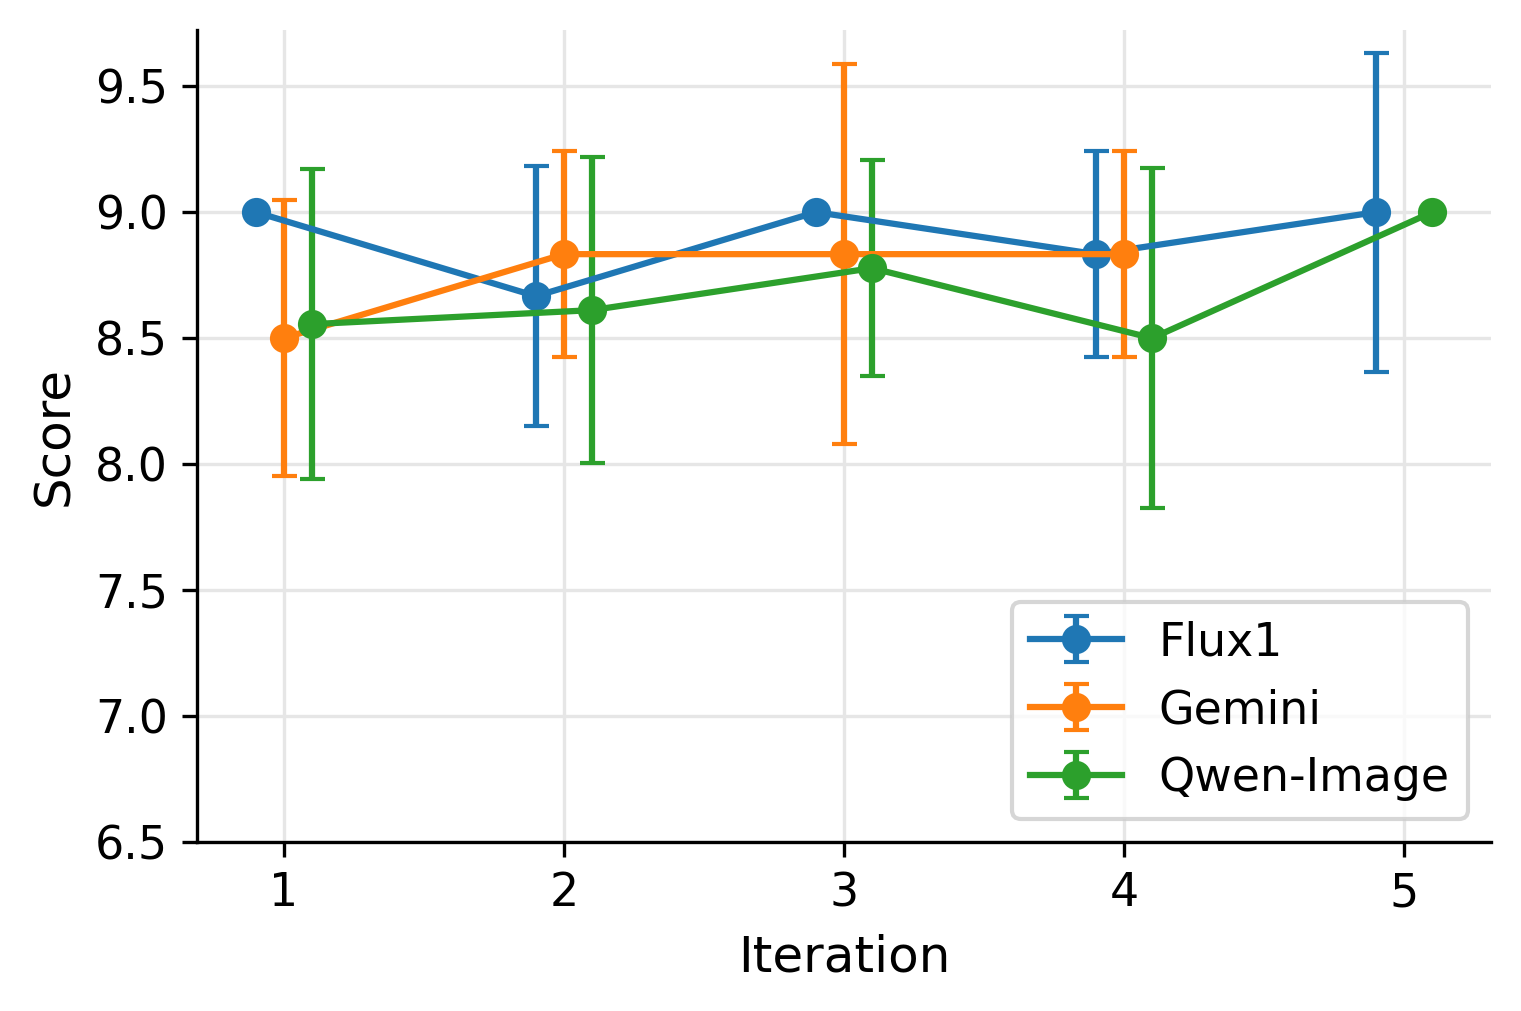
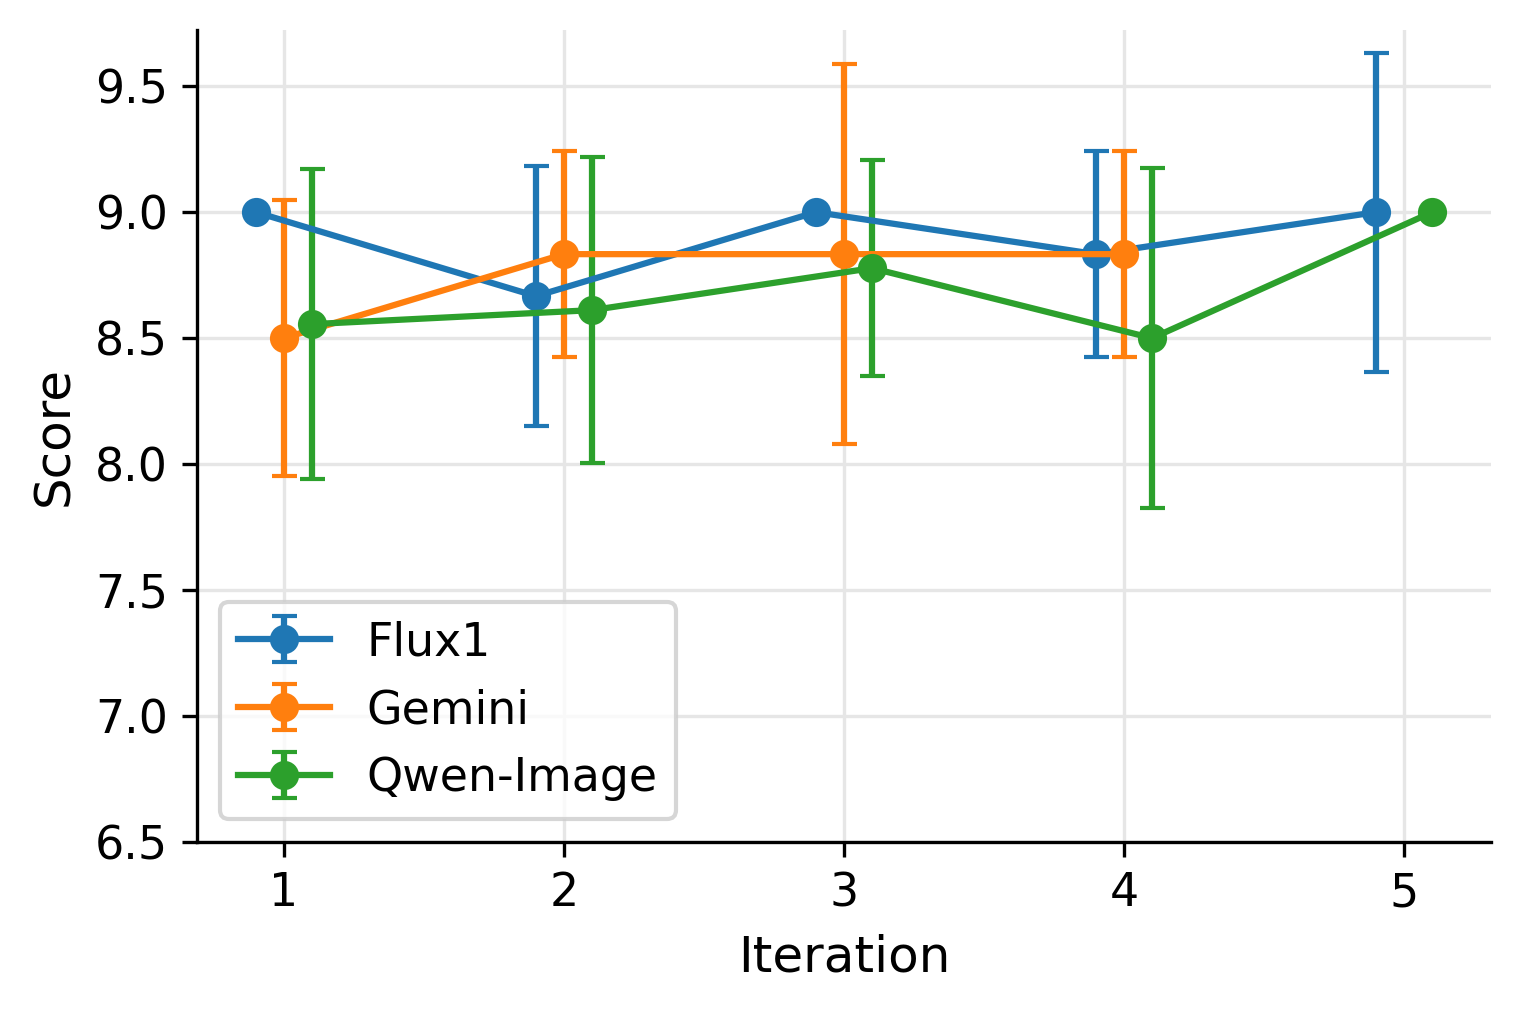
Updating location of legends

Changed region(s): [[0.6489, 0.5826, 0.9579, 0.8279], [0.1545, 0.6746, 0.4326, 0.8279], [0.1545, 0.5826, 0.4326, 0.6439]]

diff --git a/plots/score_distribution.py b/plots/score_distribution.py
@@ -179,7 +179,7 @@ def analyse_judge(judge_tag: str) -> pd.DataFrame:
         ymin, ymax = ax.get_ylim()
         ymin_data = scores["score"].min()
         ax.set_ylim(bottom=ymin_data - 0.5, top=ymax)
-        ax.legend(loc="lower right")
+        ax.legend(loc="lower left")
     # ax.legend()
     
     fig.tight_layout()
